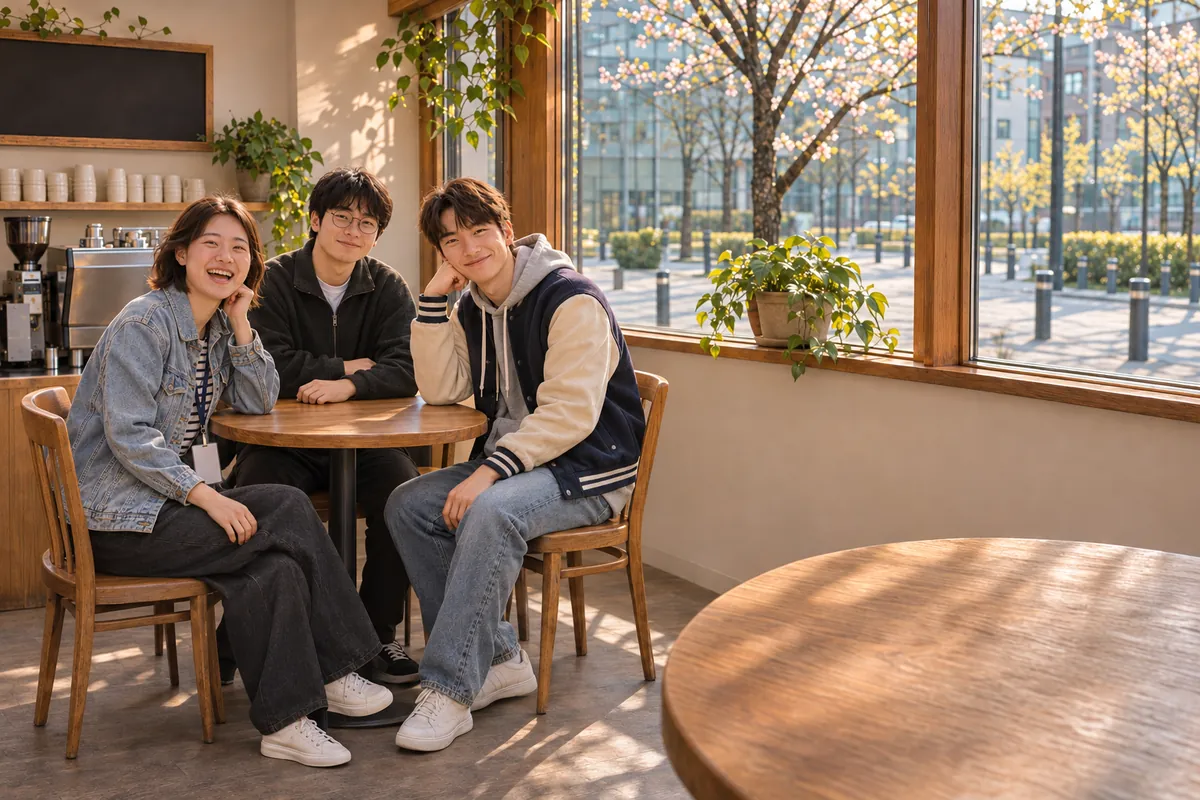
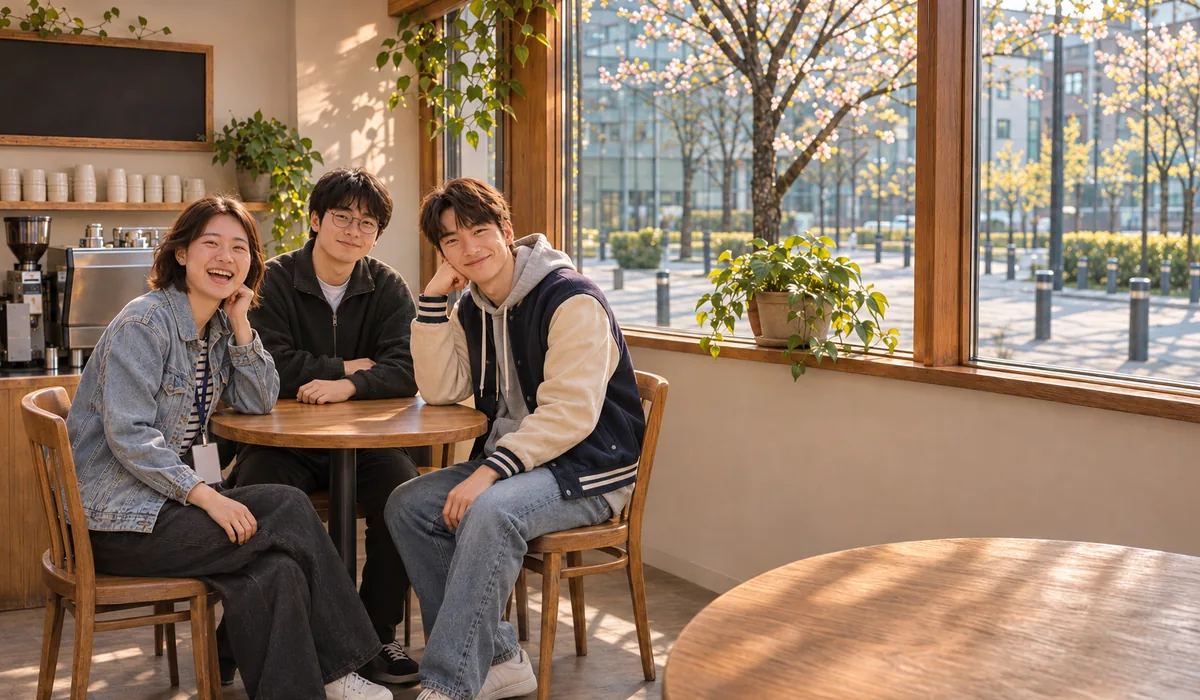
WORLD 생활 원고 2단 · 카페 팩: 창가 사진은 CSS 대신 아래쪽을 잘라 이름표가 지호의 얼굴을 가리지 않게
- life-ui.css의 위쪽 기준 맞춤을 되돌리고, 창가 사진 아래쪽 8분의 1을 잘라 1200×700으로 둠(공개 후보에 큰 CSS 파일이 통째로 들어가지 않게)
- 공개 묶음: 이 일의 커밋이 고쳤다가 되돌린 파일은 싣지 않음

diff --git a/experiences/brand-opening/content/life-ui.css b/experiences/brand-opening/content/life-ui.css
@@ -409,9 +409,8 @@ h3.life-poster-sub{margin-bottom:0}
 .cafe-scene-table[data-cafe-seat=garden]{background-position:85% 60%}
 /* 세 친구까지 함께 구운 카페 사진(카운터 · 창가 · 정원). 사진이 있는 자리는 친구 컷을 얹지 않는다. */
 .cafe-scene[data-cafe-photo=true]{background:var(--cafe-counter) 50% 100% / cover no-repeat,var(--w-s2)}
-/* 창가 사진은 세 사람이 왼쪽 위에 앉아 있어, 아래 기준으로 맞추면 장소 이름표가 지호의 얼굴을 가린다(11-24 창가 자리 캡처). 위쪽 기준으로 맞춘다. */
-.cafe-scene-table[data-cafe-photo=true]{background:var(--cafe-window) 50% 10% / cover no-repeat,var(--w-s2)}
-.cafe-scene-table[data-cafe-seat=garden][data-cafe-photo=true]{background-image:var(--cafe-garden);background-position:50% 100%}
+.cafe-scene-table[data-cafe-photo=true]{background:var(--cafe-window) 50% 100% / cover no-repeat,var(--w-s2)}
+.cafe-scene-table[data-cafe-seat=garden][data-cafe-photo=true]{background-image:var(--cafe-garden)}
 /* 사진 속 세 친구는 장면 폭의 왼쪽 58%까지 선다(굽기 지시). 쟁반은 그 옆 빈 카운터에만 놓이게 좁힌다(390 실측). 사진은 아래에 붙여 아래 상태 줄이 발을 덜 가리게 한다. */
 .cafe-scene[data-cafe-photo=true]>.cafe-tray{width:34%}
 .cafe-place-label{position:absolute;left:10px;top:10px;z-index:2;display:inline-flex;align-items:center;gap:6px;min-height:30px;padding:0 12px;border-radius:999px;background:rgba(8,9,12,.62);color:#FAFAF9;font-size:13px;line-height:1.2;font-weight:var(--wt-strong);-webkit-backdrop-filter:blur(8px);backdrop-filter:blur(8px)}

diff --git a/experiences/synk-world-app/life-ui.css b/experiences/synk-world-app/life-ui.css
@@ -409,9 +409,8 @@ h3.life-poster-sub{margin-bottom:0}
 .cafe-scene-table[data-cafe-seat=garden]{background-position:85% 60%}
 /* 세 친구까지 함께 구운 카페 사진(카운터 · 창가 · 정원). 사진이 있는 자리는 친구 컷을 얹지 않는다. */
 .cafe-scene[data-cafe-photo=true]{background:var(--cafe-counter) 50% 100% / cover no-repeat,var(--w-s2)}
-/* 창가 사진은 세 사람이 왼쪽 위에 앉아 있어, 아래 기준으로 맞추면 장소 이름표가 지호의 얼굴을 가린다(11-24 창가 자리 캡처). 위쪽 기준으로 맞춘다. */
-.cafe-scene-table[data-cafe-photo=true]{background:var(--cafe-window) 50% 10% / cover no-repeat,var(--w-s2)}
-.cafe-scene-table[data-cafe-seat=garden][data-cafe-photo=true]{background-image:var(--cafe-garden);background-position:50% 100%}
+.cafe-scene-table[data-cafe-photo=true]{background:var(--cafe-window) 50% 100% / cover no-repeat,var(--w-s2)}
+.cafe-scene-table[data-cafe-seat=garden][data-cafe-photo=true]{background-image:var(--cafe-garden)}
 /* 사진 속 세 친구는 장면 폭의 왼쪽 58%까지 선다(굽기 지시). 쟁반은 그 옆 빈 카운터에만 놓이게 좁힌다(390 실측). 사진은 아래에 붙여 아래 상태 줄이 발을 덜 가리게 한다. */
 .cafe-scene[data-cafe-photo=true]>.cafe-tray{width:34%}
 .cafe-place-label{position:absolute;left:10px;top:10px;z-index:2;display:inline-flex;align-items:center;gap:6px;min-height:30px;padding:0 12px;border-radius:999px;background:rgba(8,9,12,.62);color:#FAFAF9;font-size:13px;line-height:1.2;font-weight:var(--wt-strong);-webkit-backdrop-filter:blur(8px);backdrop-filter:blur(8px)}
